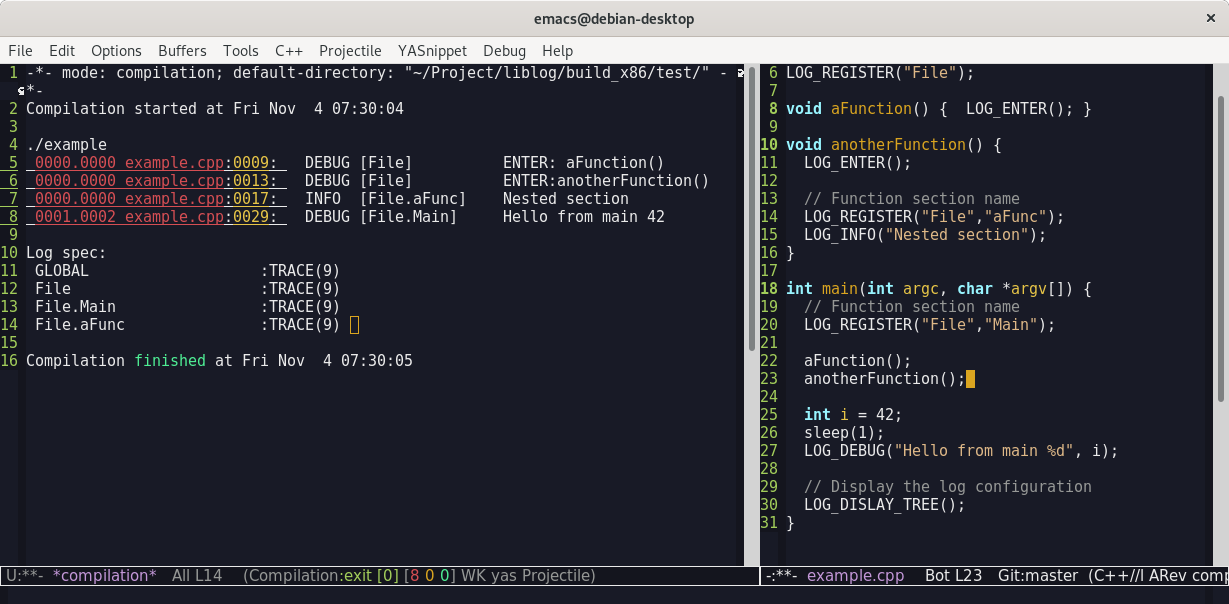
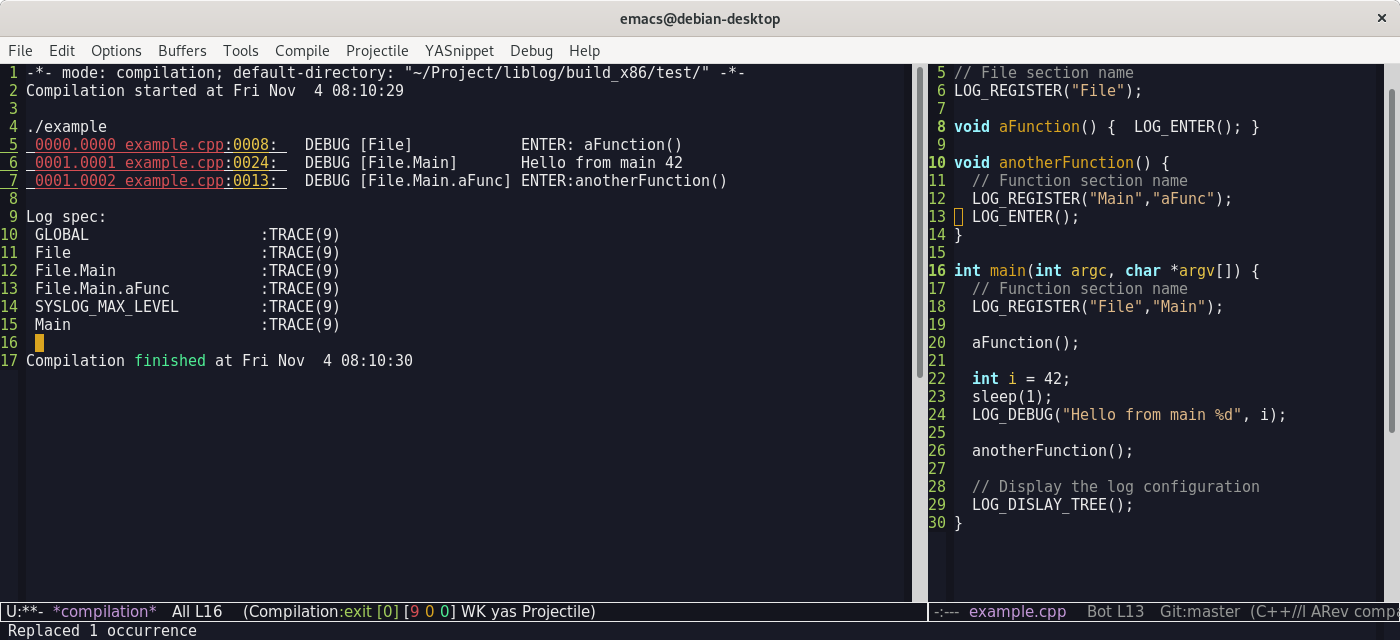
Change sample & screeshot

Changed region(s): [[0.0, 0.0, 1.0, 1.0]]

diff --git a/test/example.cpp b/test/example.cpp
@@ -8,11 +8,9 @@ LOG_REGISTER("File");
 void aFunction() {  LOG_ENTER(); }
 
 void anotherFunction() {
-  LOG_ENTER();
-
   // Function section name
-  LOG_REGISTER("File","aFunc");
-  LOG_INFO("Nested section");
+  LOG_REGISTER("Main","aFunc");
+  LOG_ENTER();
 }
 
 int main(int argc, char *argv[]) {
@@ -20,11 +18,12 @@ int main(int argc, char *argv[]) {
   LOG_REGISTER("File","Main");
 
   aFunction();
-  anotherFunction();
 
   int i = 42;
   sleep(1);
   LOG_DEBUG("Hello from main %d", i);
+
+  anotherFunction();
 
   // Display the log configuration
   LOG_DISLAY_TREE();
